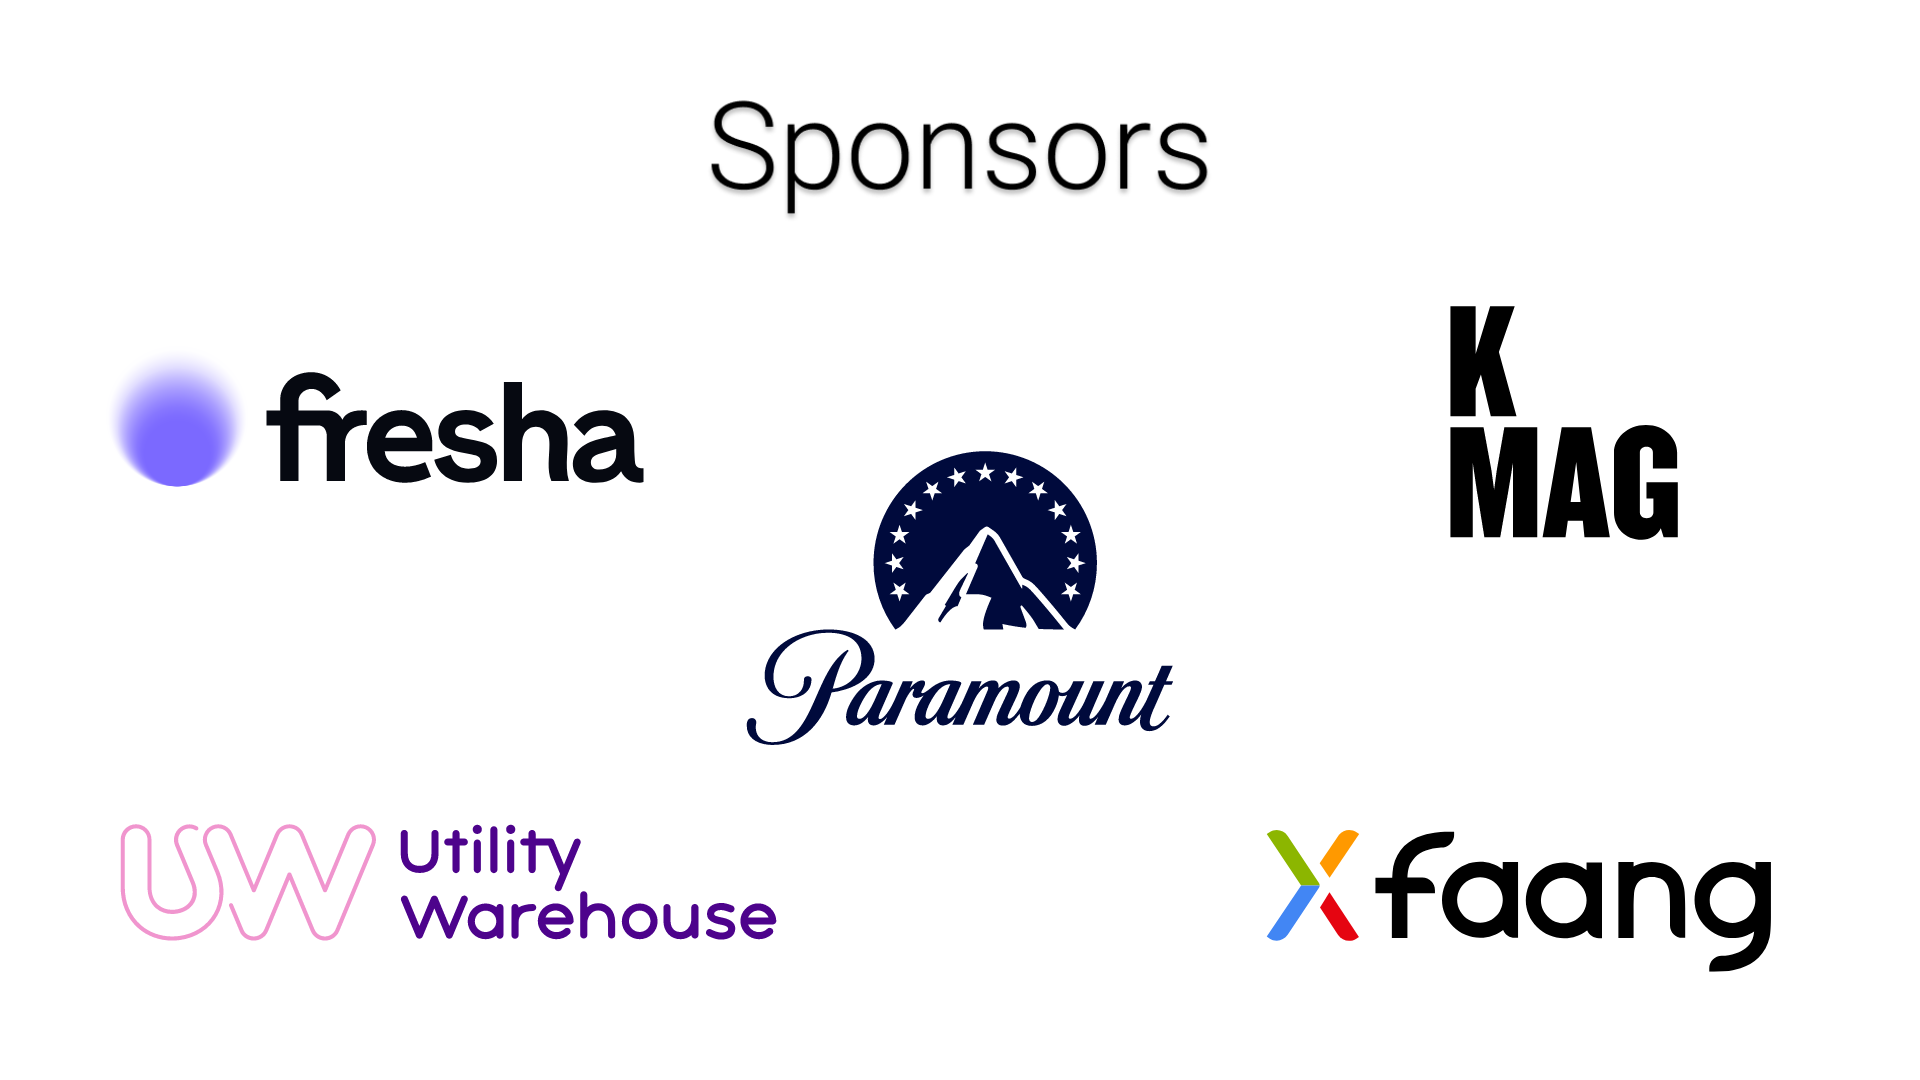
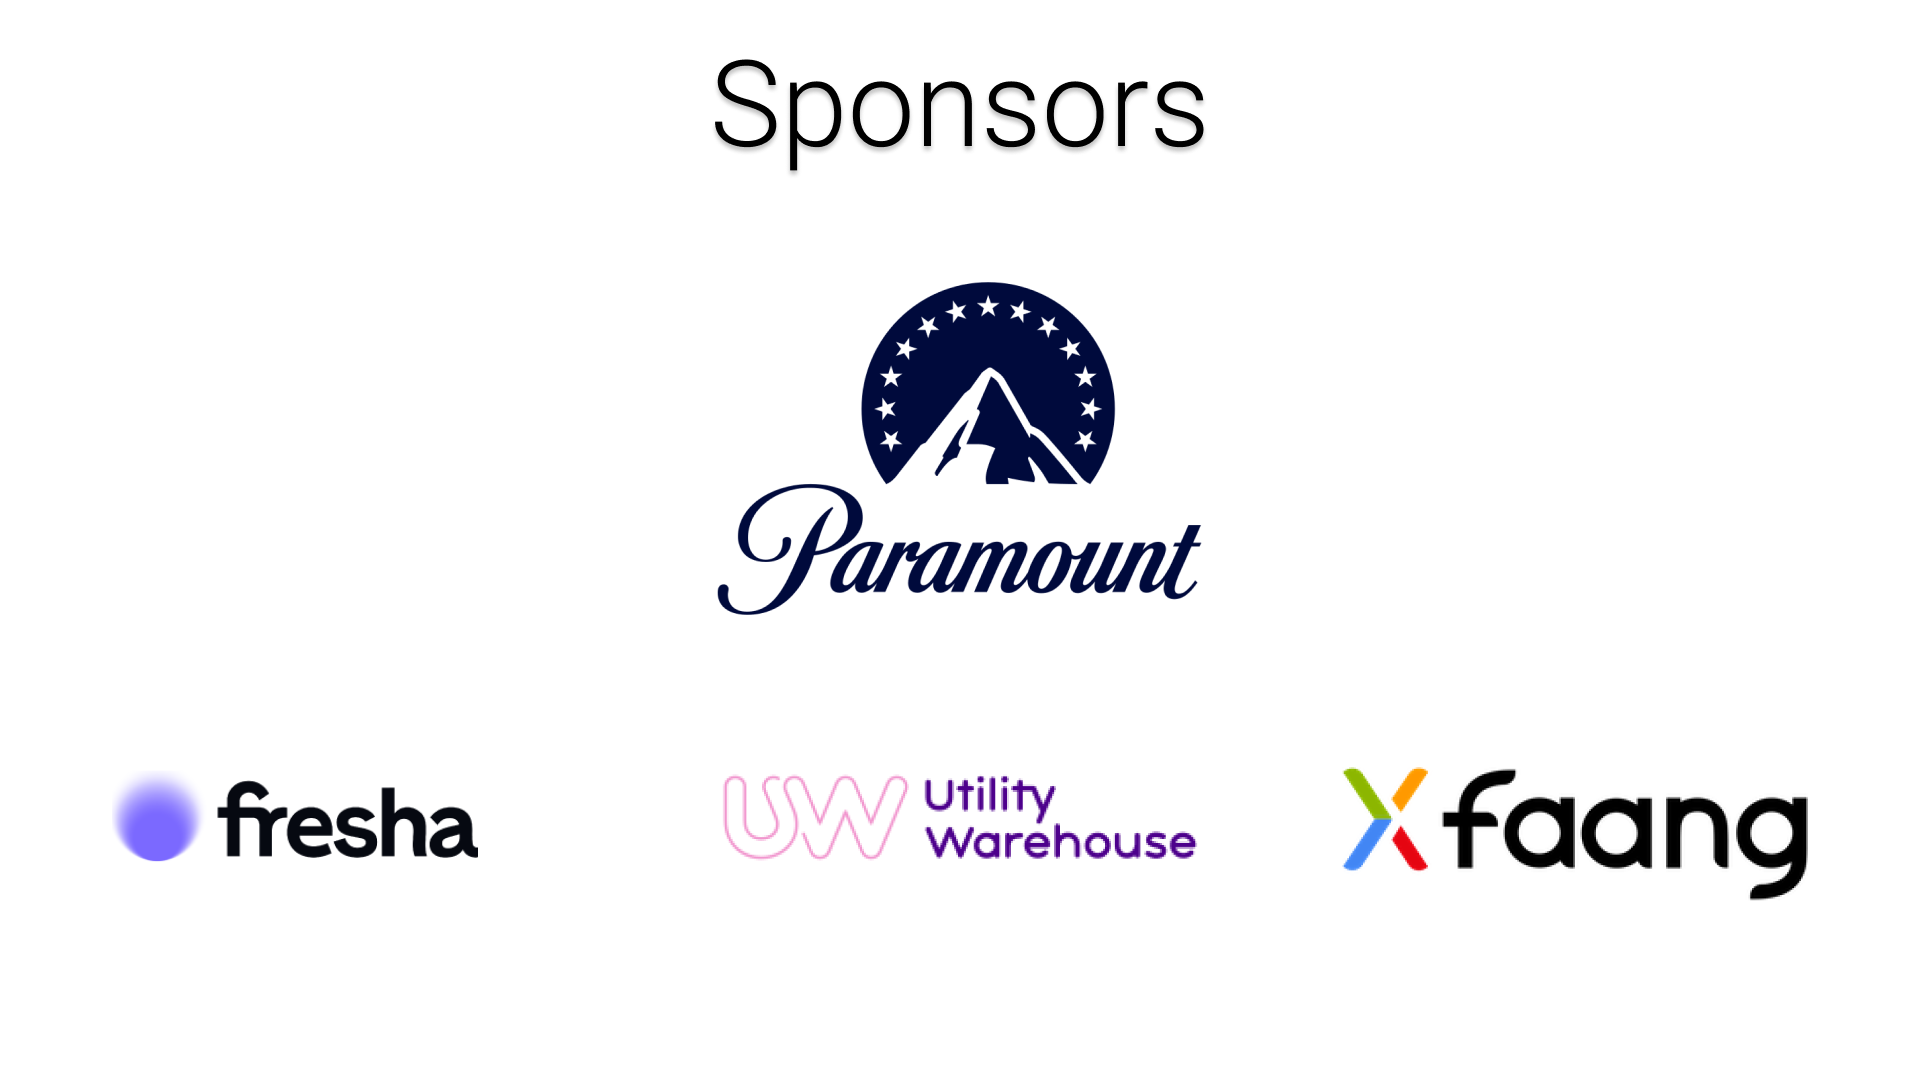
Update slides fo 107

diff --git a/index.html b/index.html
@@ -397,7 +397,25 @@
 
     <section class="slide">
         <img class="cover" src="images/misc/Sponsors.png"
-             alt="Callstack, Fresha, Google for Startups, Utility Warehouse, Xfaang"/>
+             alt="Fresha, Paramount, Utility Warehouse, Xfaang"/>
+    </section>
+
+    <section class="slide center slide-card-list" style="padding-top: 40px;">
+        <h2 style="font-size: 60px; margin-bottom: 20px;">
+            WarsawJS <em>Media Partner</em>
+        </h2>
+
+        <ul class="list-unstyled items">
+            <li>
+                <a href="https://www.facebook.com/k.mag">
+                    <img
+                        src="https://s3.eu-central-1.amazonaws.com/www.warsawjs.com/static/images/partners/kmag.png"
+                        style="width: 270px; margin-bottom: 25px;"
+                        alt="K MAG"/>
+
+                </a>
+            </li>
+        </ul>
     </section>
 
 
